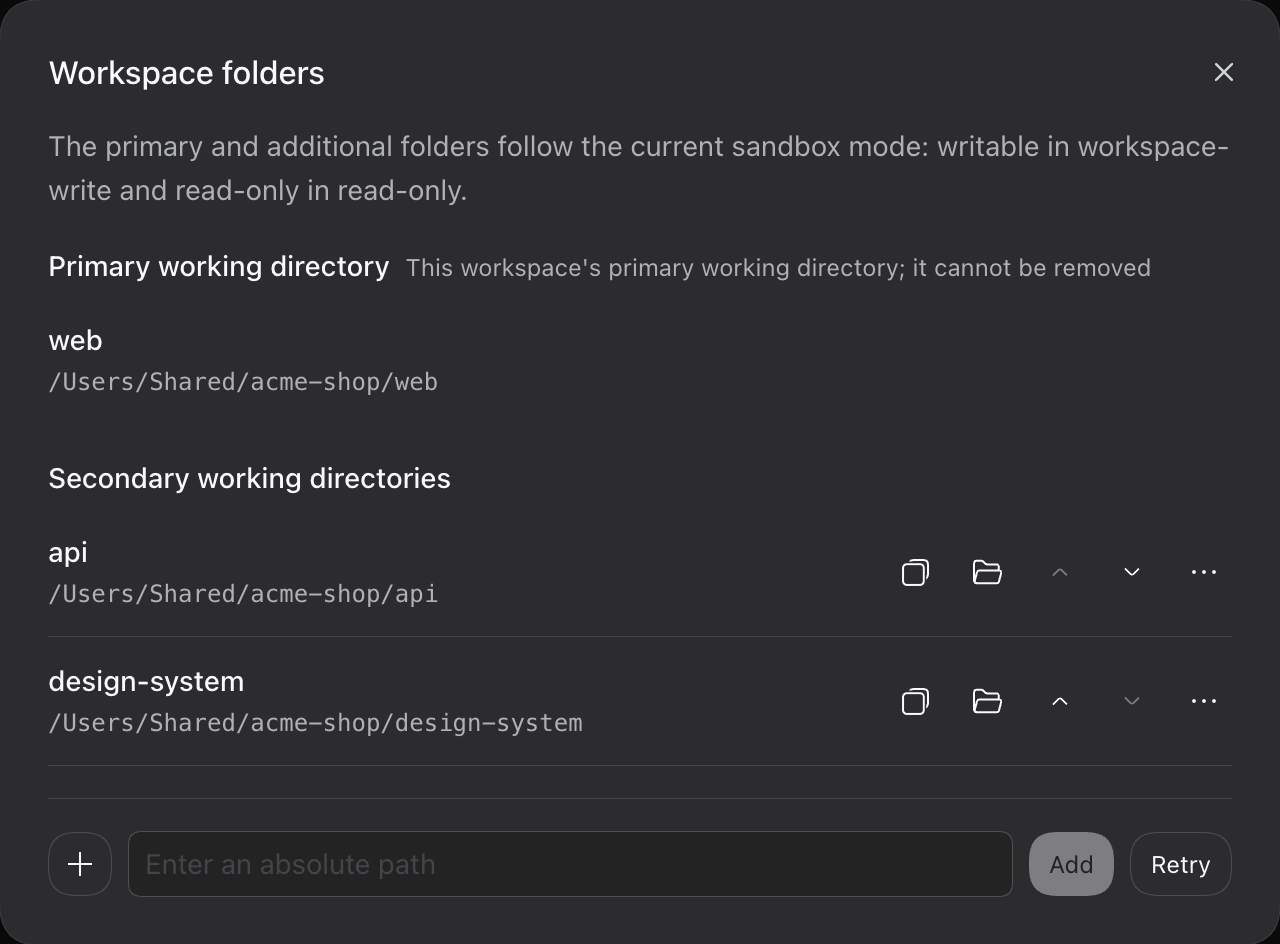
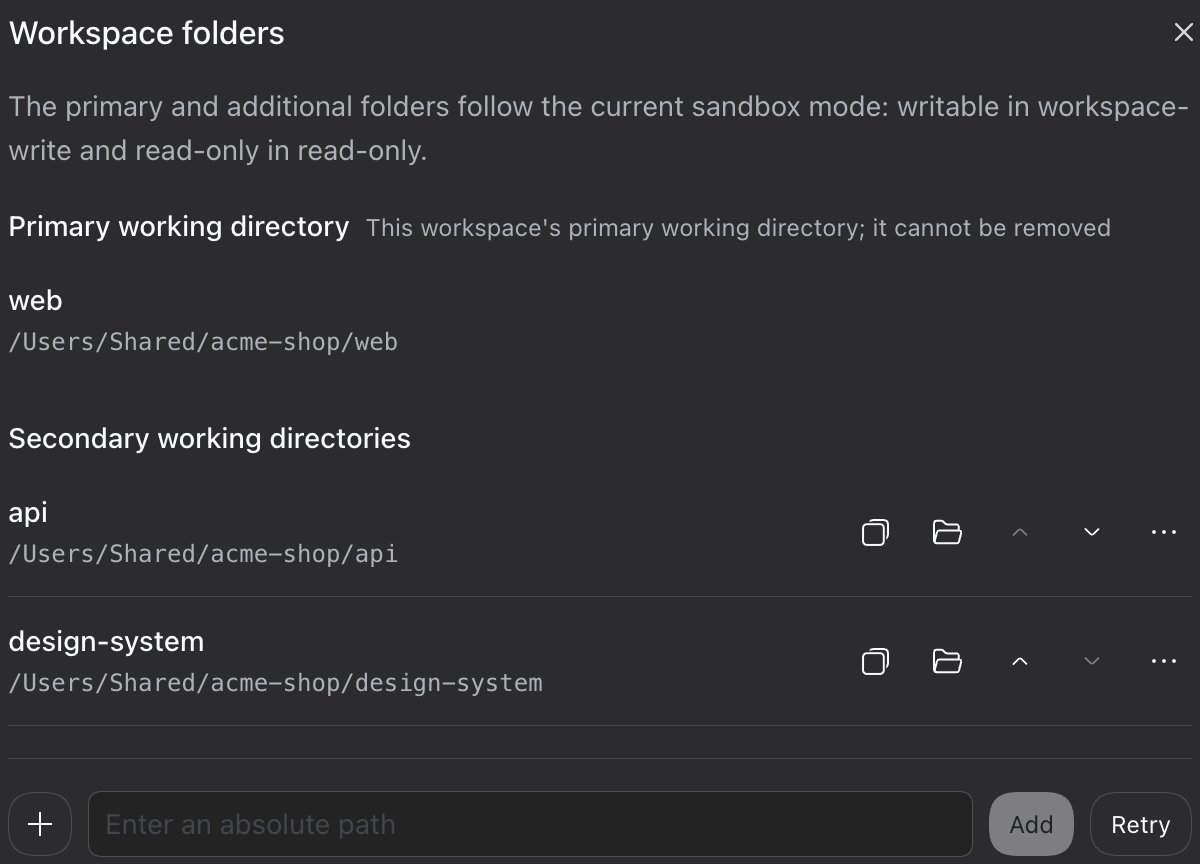
fix: tidy the Multi-root plugin page around install, screenshot, and footer
Crop the folders dialog so rounded corners do not leak a shadow, show the four README install sources as tabs, and stop the footer and platform note from wrapping awkwardly.

diff --git a/components/multi-root/install-tabs.tsx b/components/multi-root/install-tabs.tsx
@@ -4,19 +4,46 @@ import { useId, useState } from 'react'
 import { CodeBlock } from '@/components/ui/code-block'
 import type { CopyLabels } from '@/components/ui/copy-button'
 import type { Dictionary } from '@/lib/i18n/dictionaries'
+import { COMPAT_PLUGIN_VERSION } from '@/lib/multi-root-compat'
 import { MULTI_ROOT_PACKAGE } from '@/lib/site'
 
-const PROFILES = ['web', 'desktop'] as const
+const SOURCES = ['npm', 'tarball', 'github', 'local'] as const
+type Source = (typeof SOURCES)[number]
 
-/** Profile switch that rewrites the install commands; both panels exist in the DOM for crawlers. */
+const TARBALL = `dsh-electron-dsh-plugin-multi-root-workspace-${COMPAT_PLUGIN_VERSION}.tgz`
+const GITHUB = `github:cherrchen/dsh-plugin-multi-root-workspace#v${COMPAT_PLUGIN_VERSION}`
+const REPO = 'https://github.com/cherrchen/dsh-plugin-multi-root-workspace.git'
+
+function sourceLines(source: Source): string[] {
+  const add = `dsh plugin --profile web add`
+  switch (source) {
+    case 'npm':
+      return [`${add} ${MULTI_ROOT_PACKAGE}`, 'dsh --profile web']
+    case 'tarball':
+      return [`pnpm pack ${MULTI_ROOT_PACKAGE}`, `${add} ./${TARBALL}`]
+    case 'github':
+      return [`${add} ${GITHUB}`]
+    case 'local':
+      return [
+        `git clone ${REPO}`,
+        'cd dsh-plugin-multi-root-workspace',
+        'export CI=true',
+        'pnpm install',
+        'pnpm build',
+        `${add} "$PWD"`,
+      ]
+  }
+}
+
+/** Source switch that shows the four README install methods; every panel stays in the DOM for crawlers. */
 export function InstallTabs({ t, copy }: { t: Dictionary['multiRoot']['install']['tabs']; copy: CopyLabels }) {
-  const [active, setActive] = useState<(typeof PROFILES)[number]>('web')
+  const [active, setActive] = useState<Source>('npm')
   const base = useId()
 
   return (
     <div>
-      <div role="tablist" aria-label={t.label} className="inline-flex rounded-md border border-border p-0.5">
-        {PROFILES.map((id) => (
+      <div role="tablist" aria-label={t.label} className="inline-flex flex-wrap rounded-md border border-border p-0.5">
+        {SOURCES.map((id) => (
           <button
             key={id}
             id={`${base}-tab-${id}`}
@@ -28,7 +55,10 @@ export function InstallTabs({ t, copy }: { t: Dictionary['multiRoot']['install']
             onClick={() => setActive(id)}
             onKeyDown={(e) => {
               if (e.key === 'ArrowRight' || e.key === 'ArrowLeft') {
-                const next = active === 'web' ? 'desktop' : 'web'
+                e.preventDefault()
+                const i = SOURCES.indexOf(active)
+                const next = SOURCES[(i + (e.key === 'ArrowRight' ? 1 : -1) + SOURCES.length) % SOURCES.length]
+                if (!next) return
                 setActive(next)
                 document.getElementById(`${base}-tab-${next}`)?.focus()
               }
@@ -39,12 +69,15 @@ export function InstallTabs({ t, copy }: { t: Dictionary['multiRoot']['install']
           </button>
         ))}
       </div>
-      {PROFILES.map((id) => (
-        <div key={id} id={`${base}-panel-${id}`} role="tabpanel" aria-labelledby={`${base}-tab-${id}`} hidden={active !== id} className="mt-4">
-          <p className="mb-3 text-sm text-fg-subtle">{t[id].note}</p>
-          <CodeBlock title={`install · ${id}`} copy={copy} lines={[`dsh plugin --profile ${id} add ${MULTI_ROOT_PACKAGE}`, `dsh --profile ${id}`]} />
-        </div>
-      ))}
+      {SOURCES.map((id) => {
+        const lines = sourceLines(id)
+        return (
+          <div key={id} id={`${base}-panel-${id}`} role="tabpanel" aria-labelledby={`${base}-tab-${id}`} hidden={active !== id} className="mt-4">
+            <p className="mb-3 text-sm text-fg-subtle">{t[id].note}</p>
+            <CodeBlock title={`install · ${id}`} copy={copy} lines={lines} />
+          </div>
+        )
+      })}
     </div>
   )
 }

diff --git a/lib/i18n/dictionaries/en.ts b/lib/i18n/dictionaries/en.ts
@@ -208,7 +208,7 @@ const en = {
     cta: 'Install',
     footer: {
       plugin: { title: 'Plugin', features: 'Features', security: 'Security', install: 'Install', compatibility: 'Compatibility' },
-      docs: { title: 'Docs', readme: 'README', architecture: 'Architecture', contract: 'Compatibility contract (ADR-0009)', changelog: 'Changelog' },
+      docs: { title: 'Docs', readme: 'README', architecture: 'Architecture', changelog: 'Changelog' },
       source: { title: 'Source', repo: 'GitHub repository', npm: 'npm package', issues: 'Report an issue' },
       ecosystem: { title: 'Ecosystem', harness: 'DeepSeek Harness', rivetdeck: 'Rivetdeck desktop app' },
       note: 'Multi-root Workspace is an independent, MIT-licensed plugin for DSH (DeepSeek Harness). It is not made, endorsed or supported by DeepSeek. “DeepSeek Harness” is a trademark of DeepSeek and is used here only to describe compatibility.',
@@ -407,9 +407,11 @@ const en = {
       lead: 'The plugin installs through the DSH plugin manager. It is published on npm and works with the web and desktop profiles.',
       step1: { title: 'Install the package', body: 'Run this with a supported DSH runtime. Replace the profile for Electron desktop.' },
       tabs: {
-        label: 'DSH profile',
-        web: { label: 'Web profile', note: 'Run DSH in the browser or headless server.' },
-        desktop: { label: 'Desktop profile', note: 'Electron desktop; the install method is identical.' },
+        label: 'Install source',
+        npm: { label: 'npm', note: 'Recommended. Pre-built artifacts; the first add needs one allowBuilds answer.' },
+        tarball: { label: 'tarball', note: 'Pre-built offline package. You can also download the same tgz from the GitHub Release.' },
+        github: { label: 'GitHub', note: 'Pulls source and builds it through prepare. Needs two allowBuilds answers; pin a tag.' },
+        local: { label: 'local', note: 'Links a local checkout for development. Without a TTY, export CI=true first.' },
       },
       step2: {
         title: 'Approve the one-time build step',
@@ -422,7 +424,7 @@ const en = {
       },
       other: {
         title: 'Other sources and notes',
-        tarball: 'Also installable from a tarball, a local path, or <code>github:cherrchen/dsh-plugin-multi-root-workspace</code> (pin a tag). See the <readme>README</readme>.',
+        tarball: 'Commands above use the web profile. For Electron desktop, replace <code>--profile web</code> with <code>--profile desktop</code>. GitHub installs need two <code>allowBuilds</code> answers. See the <readme>README</readme>.',
         source: 'Running DSH from a source checkout? Use <code>pnpm dsh</code> instead of <code>dsh</code>.',
         rivetdeck: 'The plugin is not bundled with Rivetdeck. It installs separately and appears in the app’s Installed plugins.',
       },

diff --git a/lib/i18n/dictionaries/zh.ts b/lib/i18n/dictionaries/zh.ts
@@ -199,7 +199,7 @@ const zh: Dictionary = {
     cta: '安装',
     footer: {
       plugin: { title: '插件', features: '功能', security: '安全', install: '安装', compatibility: '兼容性' },
-      docs: { title: '文档', readme: 'README', architecture: '架构', contract: '兼容性约定（ADR-0009）', changelog: '更新日志' },
+      docs: { title: '文档', readme: 'README', architecture: '架构', changelog: '更新日志' },
       source: { title: '源码', repo: 'GitHub 仓库', npm: 'npm 包', issues: '反馈问题' },
       ecosystem: { title: '生态', harness: 'DeepSeek Harness', rivetdeck: 'Rivetdeck 桌面应用' },
       note: 'Multi-root Workspace 是面向 DSH（DeepSeek Harness）的独立 MIT 许可插件，并非 DeepSeek 制作、认可或提供支持。“DeepSeek Harness” 是 DeepSeek 的商标，此处仅用于说明兼容性。',
@@ -383,9 +383,11 @@ const zh: Dictionary = {
       lead: '插件通过 DSH 插件管理器安装。它已发布到 npm，适用于 web 和 desktop 两种 profile。',
       step1: { title: '安装插件包', body: '在受支持的 DSH 运行时中执行。Electron 桌面版请替换 profile。' },
       tabs: {
-        label: 'DSH profile',
-        web: { label: 'Web profile', note: '在浏览器或无头服务器中运行 DSH。' },
-        desktop: { label: 'Desktop profile', note: 'Electron 桌面版，安装方式相同。' },
+        label: '安装来源',
+        npm: { label: 'npm', note: '推荐。安装预构建产物，首次 add 需要回答一次 allowBuilds。' },
+        tarball: { label: 'tarball', note: '预构建离线包，适合内网。也可从 GitHub Release 下载同名 tgz。' },
+        github: { label: 'GitHub', note: '拉取源码并由 prepare 现场构建。需要两次 allowBuilds，请锁定标签。' },
+        local: { label: '本地源码', note: '链接本地 checkout，适合开发调试。无 TTY 时需要 export CI=true。' },
       },
       step2: {
         title: '批准一次性的构建步骤',
@@ -398,7 +400,7 @@ const zh: Dictionary = {
       },
       other: {
         title: '其他来源与说明',
-        tarball: '也可以从 tarball、本地路径或 <code>github:cherrchen/dsh-plugin-multi-root-workspace</code> 安装（请固定标签）。详见 <readme>README</readme>。',
+        tarball: '以上命令以 web profile 为例。Electron 桌面版把 <code>--profile web</code> 换成 <code>--profile desktop</code>。从 GitHub 安装需要回答两次 <code>allowBuilds</code>。详见 <readme>README</readme>。',
         source: '从源码检出运行 DSH？请用 <code>pnpm dsh</code> 代替 <code>dsh</code>。',
         rivetdeck: '该插件没有随 Rivetdeck 一同打包。它需要单独安装，并显示在应用的“已安装插件”中。',
       },

diff --git a/tests/components.test.tsx b/tests/components.test.tsx
@@ -31,14 +31,22 @@ describe('CopyButton', () => {
 })
 
 describe('InstallTabs', () => {
-  it('switches the profile used by the install command', () => {
+  it('shows the four README install sources and switches the command block', () => {
     render(<InstallTabs t={dict.multiRoot.install.tabs} copy={copy} />)
-    const web = screen.getByRole('tabpanel', { name: 'Web profile' })
-    expect(web.textContent).toContain('--profile web add @dsh-electron/dsh-plugin-multi-root-workspace')
-    fireEvent.click(screen.getByRole('tab', { name: 'Desktop profile' }))
-    const desktop = screen.getByRole('tabpanel', { name: 'Desktop profile' })
-    expect(desktop.textContent).toContain('--profile desktop add @dsh-electron/dsh-plugin-multi-root-workspace')
-    expect(screen.getByRole('tab', { name: 'Desktop profile' }).getAttribute('aria-selected')).toBe('true')
+    expect(screen.getByRole('tabpanel', { name: 'npm' }).textContent).toContain(
+      '--profile web add @dsh-electron/dsh-plugin-multi-root-workspace',
+    )
+    fireEvent.click(screen.getByRole('tab', { name: 'tarball' }))
+    expect(screen.getByRole('tabpanel', { name: 'tarball' }).textContent).toContain('pnpm pack @dsh-electron/dsh-plugin-multi-root-workspace')
+    expect(screen.getByRole('tabpanel', { name: 'tarball' }).textContent).toContain('dsh-electron-dsh-plugin-multi-root-workspace-0.1.5.tgz')
+    fireEvent.click(screen.getByRole('tab', { name: 'GitHub' }))
+    expect(screen.getByRole('tabpanel', { name: 'GitHub' }).textContent).toContain(
+      'github:cherrchen/dsh-plugin-multi-root-workspace#v0.1.5',
+    )
+    fireEvent.click(screen.getByRole('tab', { name: 'local' }))
+    expect(screen.getByRole('tabpanel', { name: 'local' }).textContent).toContain('git clone https://github.com/cherrchen/dsh-plugin-multi-root-workspace.git')
+    expect(screen.getByRole('tabpanel', { name: 'local' }).textContent).toContain('pnpm build')
+    expect(screen.getByRole('tab', { name: 'local' }).getAttribute('aria-selected')).toBe('true')
   })
 })
 

diff --git a/app/[lang]/plugins/multi-root-workspace/page.tsx b/app/[lang]/plugins/multi-root-workspace/page.tsx
@@ -71,7 +71,6 @@ export default async function MultiRootPage({ params }: PageProps<'/[lang]/plugi
       links: [
         { label: t.footer.docs.readme, href: links.multiRoot.readme },
         { label: t.footer.docs.architecture, href: links.multiRoot.architecture },
-        { label: t.footer.docs.contract, href: links.multiRoot.adr.compat },
         { label: t.footer.docs.changelog, href: links.multiRoot.changelog },
       ],
     },
@@ -86,8 +85,8 @@ export default async function MultiRootPage({ params }: PageProps<'/[lang]/plugi
     {
       title: t.footer.ecosystem.title,
       links: [
-        { label: t.footer.ecosystem.harness, href: links.upstream },
         { label: t.footer.ecosystem.rivetdeck, href: localePath(lang, '/') },
+        { label: t.footer.ecosystem.harness, href: links.upstream },
       ],
     },
   ]
@@ -458,12 +457,12 @@ function Compatibility({ dict }: { dict: Dictionary }) {
   return (
     <Section id="compatibility" eyebrow={t.eyebrow} title={t.title} lead={fmt(t.lead, { version: COMPAT_PLUGIN_VERSION })}>
       <CompatTable t={t} />
-      <p className="mt-6 max-w-3xl text-sm leading-6 text-fg-subtle">
+      <p className="mt-6 text-sm leading-6 text-pretty break-keep text-fg-subtle">
         <Rich
           text={t.footnote}
           tags={{
             contract: (c) => (
-              <a className="text-fg underline underline-offset-2" href={links.multiRoot.adr.compat} target="_blank" rel="noopener noreferrer">
+              <a className="whitespace-nowrap text-fg underline underline-offset-2" href={links.multiRoot.adr.compat} target="_blank" rel="noopener noreferrer">
                 {c}
                 <span className="sr-only">{newTab}</span>
               </a>

diff --git a/lib/screenshots.ts b/lib/screenshots.ts
@@ -39,7 +39,7 @@ export const SHOTS = {
   },
   foldersDialog: {
     name: 'multiroot-dialog',
-    width: 1280,
-    height: 944,
+    width: 1200,
+    height: 864,
   },
 } as const satisfies Record<string, ScreenshotSpec>
